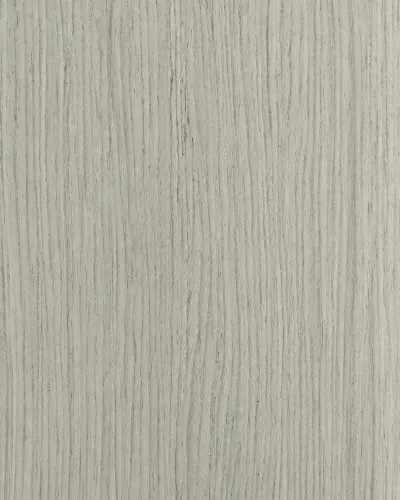
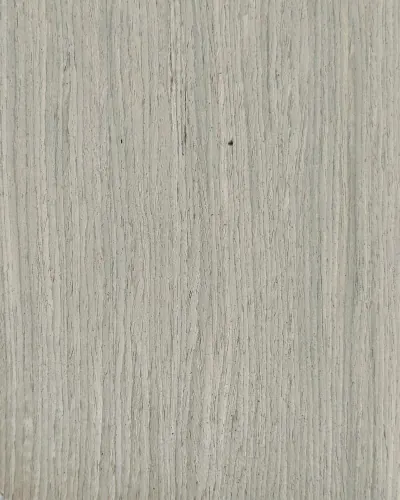
Use an evenly lit edit for the Oslo Alabaster Oak swatch

diff --git a/src/data.js b/src/data.js
@@ -2583,7 +2583,7 @@ export const PRODUCTS = [
     tones: ['cool'],
     species: 'White Oak (Quercus alba)',
     idSpecies: 'Oak Putih (Quercus alba)',
-    image: '/assets/image/OSLO ALABASTER OAK.webp?v=2',
+    image: '/assets/image/OSLO ALABASTER OAK.webp?v=3',
     hiResImage: '/assets/hires/OSLO ALABASTER OAK.png',
     bestFor: 'Scandinavian minimalist spaces, clean architectural panels, light cabinetry',
     idBestFor: 'ruang minimalis Skandinavia, panel arsitektural bersih, kabinet terang',
